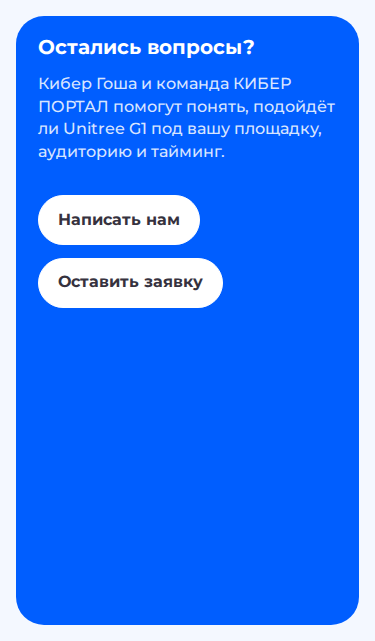
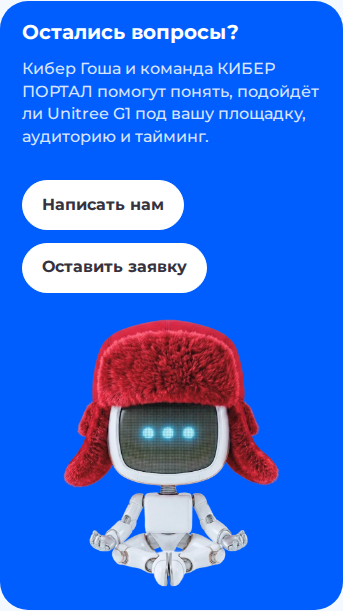
Keep final robot CTA mobile image visible

diff --git a/tests/visual/kiber94-robot-card-preview.test.ts b/tests/visual/kiber94-robot-card-preview.test.ts
@@ -202,7 +202,8 @@ test('KIBER-94 Unitree G1 CTA #2 keeps its owner image while CTA #1 can use the 
   assert.match(componentSource, /\.template-reused-block--cta:not\(\.template-reused-block--quick-cta\) :global\(\.home-final-cta__image\) \{[\s\S]*height:\s*100%/);
   assert.match(componentSource, /\.template-reused-block--cta:not\(\.template-reused-block--quick-cta\) :global\(\.home-final-cta__image\) \{[\s\S]*overflow:\s*visible/);
   assert.match(componentSource, /\.template-reused-block--cta:not\(\.template-reused-block--quick-cta\) :global\(\.home-final-cta__image img\) \{[\s\S]*height:\s*clamp\(17rem,\s*25vw,\s*20rem\)/);
-  assert.match(componentSource, /\.template-reused-block--cta:not\(\.template-reused-block--quick-cta\) :global\(\.home-final-cta__image img\) \{\n\s*width:\s*auto !important;\n\s*height:\s*clamp\(17rem,\s*25vw,\s*20rem\) !important;\n\s*max-width:\s*100%;\n\s*max-height:\s*none;\n\s*transform:\s*translateY\(-3\.5rem\);\n\s*\}/);
+  assert.match(componentSource, /\.template-reused-block--cta:not\(\.template-reused-block--quick-cta\) :global\(\.home-final-cta__image img\) \{\n\s*width:\s*auto !important;\n\s*height:\s*clamp\(17rem,\s*25vw,\s*20rem\) !important;\n\s*max-width:\s*100%;\n\s*max-height:\s*none;\n\s*\}/);
+  assert.match(componentSource, /@media \(min-width: 60rem\) \{[\s\S]*\.template-reused-block--cta:not\(\.template-reused-block--quick-cta\) :global\(\.home-final-cta__image img\) \{[\s\S]*transform:\s*translateY\(-3\.5rem\)/);
   assert.match(componentSource, /\.template-reused-block--cta:not\(\.template-reused-block--quick-cta\) :global\(\.home-final-cta__image img\) \{[\s\S]*width:\s*auto/);
   assert.match(smoke, /CTA #2 owner image/);
 });
